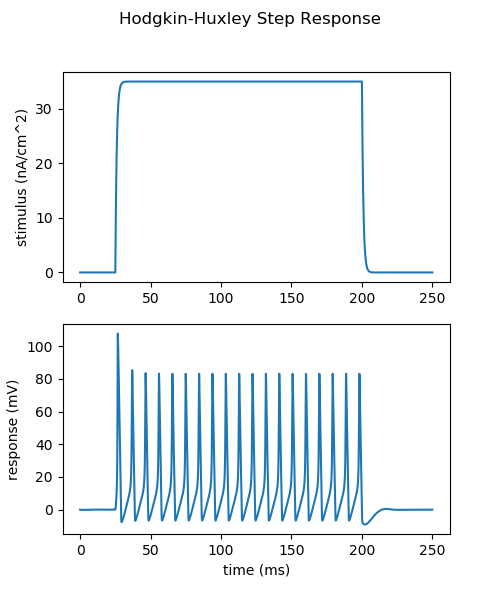
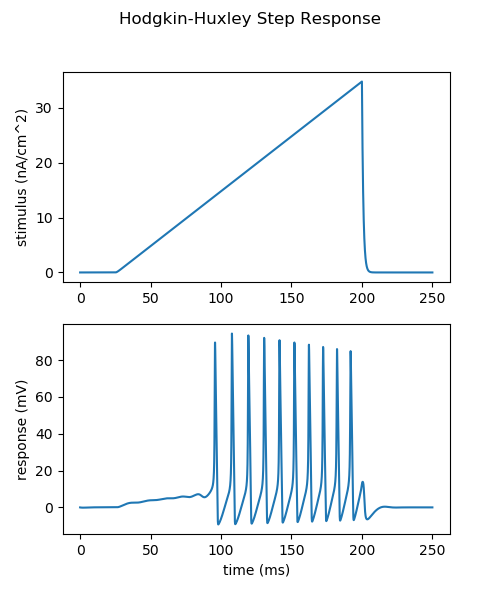
ramp

diff --git a/example.py b/example.py
@@ -18,7 +18,8 @@ def sim():
  
     hh = HodHux()
 
-    I = stim.step(t_i_start, t_i_stop, t_end, DC, dt)
+    #I = stim.step(t_i_start, t_i_stop, t_end, DC, dt)
+    I = stim.ramp(t_i_start, t_i_stop, t_end, DC, dt)
 
     if Itau:
         I = stim.filter_I_tau(I, Itau, dt)
@@ -34,7 +35,7 @@ def sim():
     ax2.set_xlabel('time (ms)')
     ax2.set_ylabel('response (mV)')
 
-    plt.suptitle('Hodgkin-Huxley Step Response')
+    plt.suptitle('Hodgkin-Huxley Ramp Response')
     plt.show()
     plt.savefig('example.png')
 

diff --git a/stimulus.py b/stimulus.py
@@ -8,7 +8,14 @@ def step(t_start, t_stop, t_end, DC, dt):
     
     return I
 
+def ramp(t_start, t_stop, t_end, imax, dt):
+    t = np.arange(0.0, t_end, dt)
 
+    I = np.zeros(t.shape)
+    I[(t>=t_start)&(t<t_stop)] = np.linspace(0, imax, (t_stop-t_start)/dt)
+    return I
+    
+    
 def filter_I_tau(I, Itau, dt):
     Iout = np.zeros_like(I)
         
